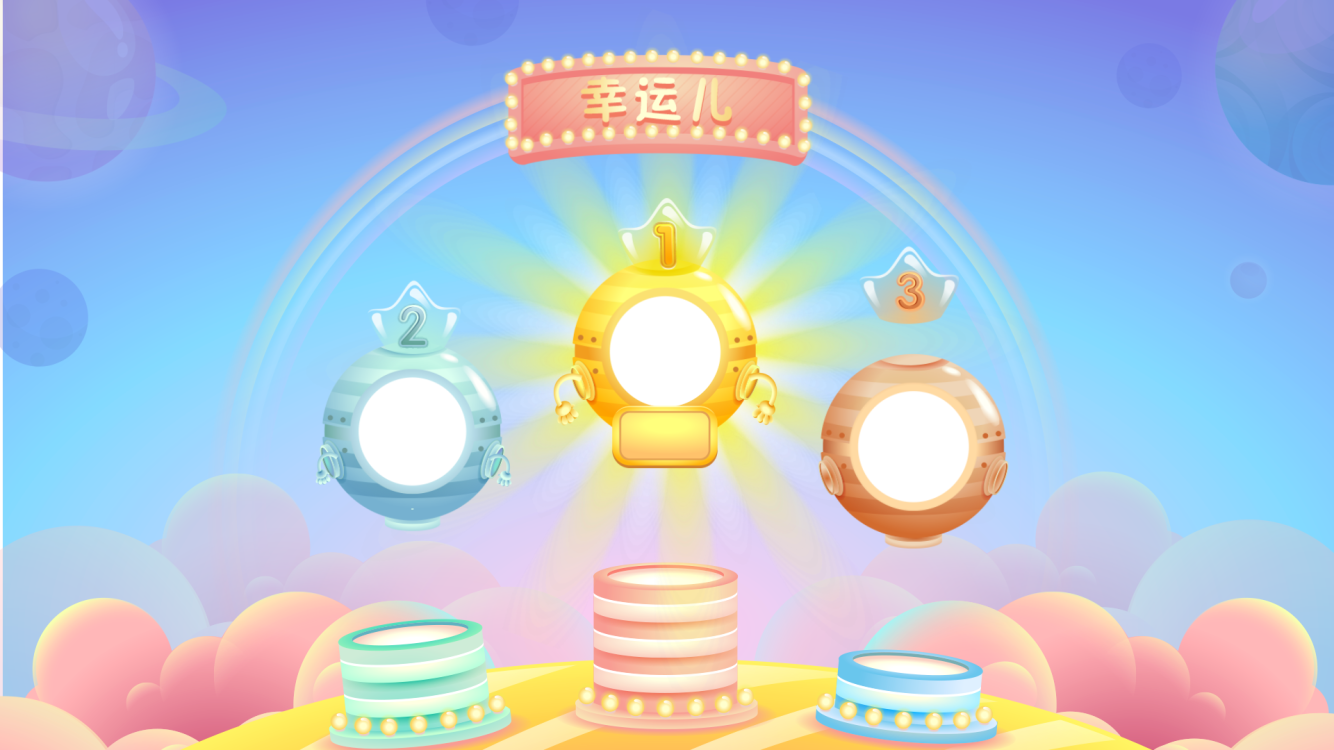
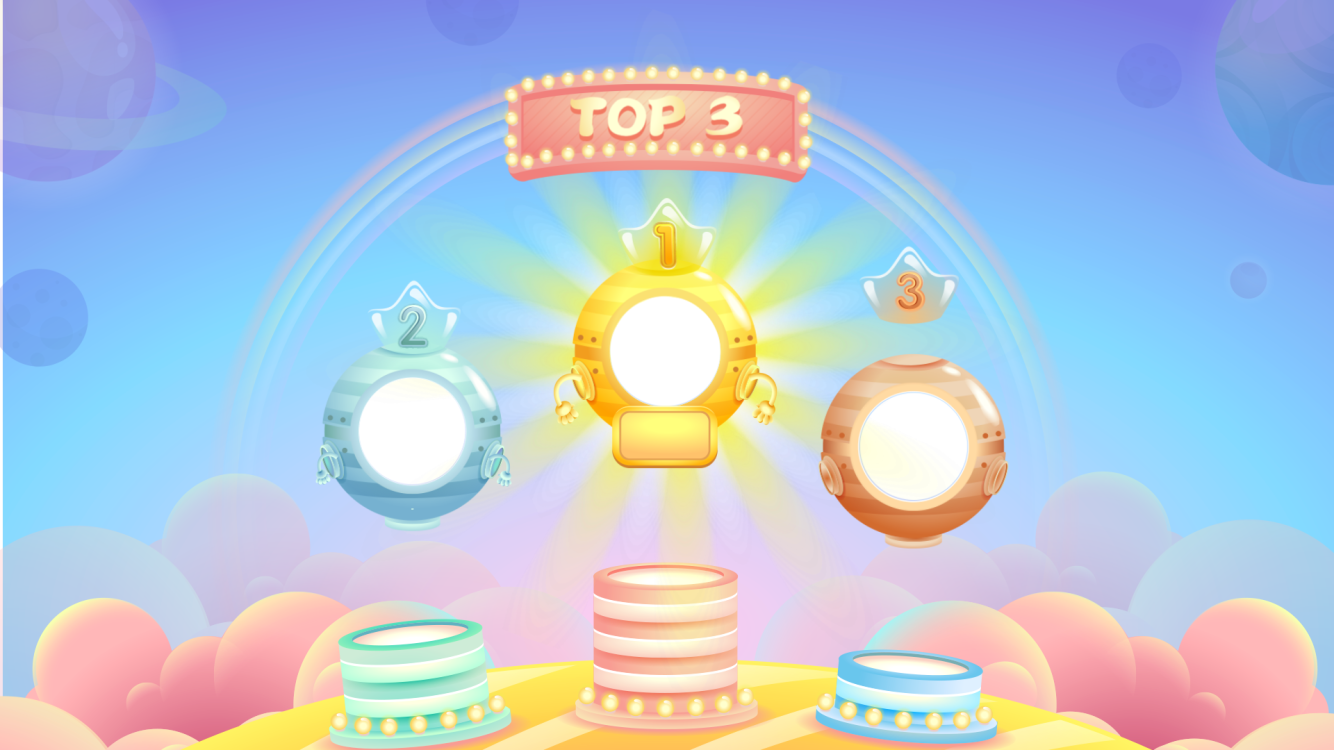
Mod:站立直播top3帧动画

Changed region(s): [[0.3688, 0.0613, 0.6147, 0.2453], [0.6454, 0.552, 0.6762, 0.644]]

diff --git a/src/main/java/com/xueersi/parentsmeeting/modules/livevideo/widget/Top3FrameAnim.java b/src/main/java/com/xueersi/parentsmeeting/modules/livevideo/widget/Top3FrameAnim.java
@@ -5,7 +5,9 @@ import android.content.Context;
 import android.graphics.Bitmap;
 import android.graphics.BitmapFactory;
 import android.graphics.Canvas;
+import android.graphics.Color;
 import android.graphics.Matrix;
+import android.graphics.Paint;
 import android.graphics.drawable.BitmapDrawable;
 import android.graphics.drawable.Drawable;
 import android.util.TypedValue;
@@ -14,6 +16,7 @@ import android.view.View;
 import android.widget.ImageView;
 import android.widget.TextView;
 
+import com.tencent.cos.xml.utils.StringUtils;
 import com.xueersi.parentsmeeting.modules.livevideo.R;
 import com.xueersi.parentsmeeting.modules.livevideo.entity.GoldTeamStatus;
 import com.xueersi.xesalib.utils.uikit.imageloader.ImageLoader;
@@ -52,6 +55,15 @@ public class Top3FrameAnim {
     }
 
     public void start(final FrameAnimation.AnimationListener animationListener, final ArrayList<GoldTeamStatus.Student> students) {
+        final int size = students.size();
+        if (size < 3) {
+            for (int i = size; i < 3; i++) {
+                GoldTeamStatus.Student student = new GoldTeamStatus.Student();
+                student.setAvatar_path("");
+                student.setNullEntity(true);
+                students.add(student);
+            }
+        }
         String path = file15;
         final FrameAnimation btframeAnimation2 =
                 FrameAnimation.createFromAees(mContext, rl_livevideo_redpackage_bg, path, 50, false);
@@ -60,11 +72,60 @@ public class Top3FrameAnim {
             public Bitmap onAnimationCreate(String file) {
                 int index = file.lastIndexOf("/");
                 String name = "";
+                int nameInt = 0;
                 if (index != -1) {
-                    name = file.substring(index + 1);
+                    name = file.substring(index + 1, file.length() - 4);
+                    String split[] = name.split("_");
+                    try {
+                        nameInt = Integer.parseInt(split[split.length - 1]);
+                    } catch (Exception e) {
+
+                    }
                 }
-                if (name.compareTo("package_rank_enter_00025") > 0) {
-                    return initTeamRankHeadAndGold(students, file, true, btframeAnimation2);
+                if (nameInt > 21 && nameInt < 24) {
+                    GoldTeamStatus.Student student = students.get(0);
+                    if (!student.isNullEntity()) {
+                        student.setDrawName(false);
+                    }
+                    return initTeamRankHeadAndGold(students, file, btframeAnimation2);
+                } else if (nameInt > 23 && nameInt < 26) {
+                    for (int i = 0; i < 2; i++) {
+                        GoldTeamStatus.Student student = students.get(i);
+                        if (!student.isNullEntity()) {
+                            student.setDrawName(false);
+                        }
+                    }
+                    return initTeamRankHeadAndGold(students, file, btframeAnimation2);
+                } else if (nameInt > 25 && nameInt < 28) {
+                    for (int i = 0; i < students.size(); i++) {
+                        GoldTeamStatus.Student student = students.get(i);
+                        if (!student.isNullEntity()) {
+                            student.setDrawName(false);
+                        }
+                    }
+                    return initTeamRankHeadAndGold(students, file, btframeAnimation2);
+                } else if (nameInt == 28) {
+                    GoldTeamStatus.Student student = students.get(0);
+                    if (!student.isNullEntity()) {
+                        student.setDrawName(true);
+                    }
+                    return initTeamRankHeadAndGold(students, file, btframeAnimation2);
+                } else if (nameInt > 28 && nameInt < 32) {
+                    for (int i = 0; i < 2; i++) {
+                        GoldTeamStatus.Student student = students.get(i);
+                        if (!student.isNullEntity()) {
+                            student.setDrawName(true);
+                        }
+                    }
+                    return initTeamRankHeadAndGold(students, file, btframeAnimation2);
+                } else if (nameInt > 31) {
+                    for (int i = 0; i < students.size(); i++) {
+                        GoldTeamStatus.Student student = students.get(i);
+                        if (!student.isNullEntity()) {
+                            student.setDrawName(true);
+                        }
+                    }
+                    return initTeamRankHeadAndGold(students, file, btframeAnimation2);
                 } else {
                     return null;
                 }
@@ -83,15 +144,20 @@ public class Top3FrameAnim {
                 final FrameAnimation btframeAnimation3 =
                         FrameAnimation.createFromAees(mContext, rl_livevideo_redpackage_bg, path, 50, true);
                 frameAnimations.add(btframeAnimation3);
-                btframeAnimation3.setBitmapCreate(new FrameAnimation.BitmapCreate() {
-                    @Override
-                    public Bitmap onAnimationCreate(String file) {
-                        if (students.isEmpty()) {
-                            return null;
+                if (!students.isEmpty()) {
+                    btframeAnimation3.setBitmapCreate(new FrameAnimation.BitmapCreate() {
+                        @Override
+                        public Bitmap onAnimationCreate(String file) {
+                            for (int i = 0; i < students.size(); i++) {
+                                GoldTeamStatus.Student student = students.get(i);
+                                if (!student.isNullEntity()) {
+                                    student.setDrawName(true);
+                                }
+                            }
+                            return initTeamRankHeadAndGold(students, file, btframeAnimation3);
                         }
-                        return initTeamRankHeadAndGold(students, file, true, btframeAnimation3);
-                    }
-                });
+                    });
+                }
                 rl_livevideo_redpackage_bg.postDelayed(new Runnable() {
                     @Override
                     public void run() {
@@ -108,7 +174,7 @@ public class Top3FrameAnim {
         });
     }
 
-    private Bitmap initTeamRankHeadAndGold(ArrayList<GoldTeamStatus.Student> students, final String file, boolean havename, final FrameAnimation upFrameAnimation) {
+    private Bitmap initTeamRankHeadAndGold(ArrayList<GoldTeamStatus.Student> students, final String file, final FrameAnimation upFrameAnimation) {
         InputStream inputStream = null;
         try {
             inputStream = mContext.getAssets().open(file);
@@ -117,12 +183,12 @@ public class Top3FrameAnim {
             Bitmap canvasBitmap = Bitmap.createBitmap(bitmap.getWidth(), bitmap.getHeight(), Bitmap.Config.ARGB_8888);
             canvasBitmap.setDensity(160);
             Canvas canvas = new Canvas(canvasBitmap);
-            canvas.drawBitmap(bitmap, 0, 0, null);
-            float[] headWidth = {108f, 96f, 96f};
+            float[] headWidth = {110f, 98f, 98f};
             int mid = bitmap.getWidth() / 2;
             float[][] headLeftAndRights = {{mid - 20, 295}, {mid - 200, 382}, {mid + 170, 398}};
             float[] textTops = {408, 478, 492};
             int[] textColors = {0xffD45F19, 0xff0C719B, 0xffD04715};
+            int[] scalHeadWidth = new int[]{-1, -1, -1};
             for (int i = 0; i < students.size(); i++) {
                 Bitmap head;
                 final GoldTeamStatus.Student entity = students.get(i);
@@ -136,8 +202,7 @@ public class Top3FrameAnim {
                     head = stuHeadBitmap.get(entity.getStuId());
                 }
                 float[] leftAndRight = headLeftAndRights[i];
-                float left = leftAndRight[0];
-                int scalHeadWidth = -1;
+                float left;
                 if (head != null && !head.isRecycled()) {
                     float scaleWidth = headWidth[i] / head.getHeight();
                     Matrix matrix = new Matrix();
@@ -151,39 +216,73 @@ public class Top3FrameAnim {
                     } else {
                         left = mid + scalHeadBitmap.getWidth() / 2 + 150;
                     }
+                    leftAndRight[0] = left;
                     float top = leftAndRight[1];
                     canvas.drawBitmap(scalHeadBitmap, left, top, null);
-                    scalHeadWidth = scalHeadBitmap.getWidth();
+                    scalHeadWidth[i] = scalHeadBitmap.getWidth();
                     scalHeadBitmap.recycle();
                 } else {
-                    Activity activity = (Activity) mContext;
-                    if (!activity.isFinishing()) {
-                        activity.runOnUiThread(new Runnable() {
-                            @Override
-                            public void run() {
-                                ImageLoader.with(mContext).load(entity.getAvatar_path()).asCircle().asBitmap(new SingleConfig.BitmapListener() {
-                                    @Override
-                                    public void onSuccess(Drawable drawable) {
-                                        Bitmap headBitmap = ((BitmapDrawable) drawable).getBitmap();
-                                        if (isMe) {
-                                            Top3FrameAnim.this.headBitmap = headBitmap;
+                    if (StringUtils.isEmpty(entity.getAvatar_path())) {
+                        if (i == 0) {
+                            left = mid - headWidth[i] / 2;
+                        } else if (i == 1) {
+                            left = mid - headWidth[i] - 206;
+                        } else {
+                            left = mid + headWidth[i] / 2 + 150;
+                        }
+                        leftAndRight[0] = left;
+                        float top = leftAndRight[1];
+//                        canvas.drawBitmap(scalHeadBitmap, left, top, null);
+                        Paint paint = new Paint();
+                        paint.setColor(Color.WHITE);
+                        float radius = headWidth[i] / 2;
+                        canvas.drawCircle(left + radius, top + radius, radius, paint);
+                    } else {
+                        Activity activity = (Activity) mContext;
+                        if (!activity.isFinishing()) {
+                            activity.runOnUiThread(new Runnable() {
+                                @Override
+                                public void run() {
+                                    ImageLoader.with(mContext).load(entity.getAvatar_path()).asCircle().asBitmap(new SingleConfig.BitmapListener() {
+                                        @Override
+                                        public void onSuccess(Drawable drawable) {
+                                            Bitmap headBitmap = ((BitmapDrawable) drawable).getBitmap();
+                                            if (isMe) {
+                                                Top3FrameAnim.this.headBitmap = headBitmap;
+                                            }
+                                            stuHeadBitmap.put(entity.getStuId(), headBitmap);
+                                            upFrameAnimation.removeBitmapCache(file);
                                         }
-                                        stuHeadBitmap.put(entity.getStuId(), headBitmap);
-                                        upFrameAnimation.removeBitmapCache(file);
-                                    }
 
-                                    @Override
-                                    public void onFail() {
+                                        @Override
+                                        public void onFail() {
 
-                                    }
-                                });
-                            }
-                        });
+                                        }
+                                    });
+                                }
+                            });
+                        }
                     }
                 }
-                bitmap.recycle();
+            }
+            canvas.drawBitmap(bitmap, 0, 0, null);
+            bitmap.recycle();
+            for (int i = 0; i < students.size(); i++) {
+                Bitmap head;
+                final GoldTeamStatus.Student entity = students.get(i);
+//                final boolean isMe = entity.isMe();
+//                if (isMe) {
+//                    head = headBitmap;
+//                    if (head == null) {
+//                        head = stuHeadBitmap.get(entity.getStuId());
+//                    }
+//                } else {
+//                    head = stuHeadBitmap.get(entity.getStuId());
+//                }
+                float[] leftAndRight = headLeftAndRights[i];
+                float left = leftAndRight[0];
                 //画名字和金币数量
-                if (havename) {
+                if (entity.isDrawName()) {
                     String gold = "+" + entity.getGold();
                     View layout_live_stand_red_mine1 = LayoutInflater.from(mContext).inflate(R.layout.layout_live_stand_red_mine2, null);
                     ImageView iv_livevideo_redpackage_num = layout_live_stand_red_mine1.findViewById(R.id.iv_livevideo_redpackage_num);
@@ -211,8 +310,8 @@ public class Top3FrameAnim {
                     canvas.save();
                     float top = textTops[i];
                     float textLeft = left;
-                    if (scalHeadWidth != -1) {
-                        textLeft = left + scalHeadWidth / 2 - layout_live_stand_red_mine1.getMeasuredWidth() / 2;
+                    if (scalHeadWidth[i] != -1) {
+                        textLeft = left + scalHeadWidth[i] / 2 - layout_live_stand_red_mine1.getMeasuredWidth() / 2;
                     }
                     canvas.translate(textLeft, top);
                     layout_live_stand_red_mine1.draw(canvas);

diff --git a/src/main/java/com/xueersi/parentsmeeting/modules/livevideo/entity/GoldTeamStatus.java b/src/main/java/com/xueersi/parentsmeeting/modules/livevideo/entity/GoldTeamStatus.java
@@ -74,6 +74,10 @@ public class GoldTeamStatus {
         String en_name;// "rer",
         String avatar_path;// "http:\/\/xesfile.xesimg.com\/user\/h\/31203.jpg"
         boolean isRight = false;
+        /** 只绘制头像不绘制名字 */
+        boolean drawName;
+        /** 空对象 */
+        boolean nullEntity = false;
 
         public boolean isMe() {
             return isMe;
@@ -145,6 +149,22 @@ public class GoldTeamStatus {
 
         public void setRight(boolean right) {
             isRight = right;
+        }
+
+        public boolean isDrawName() {
+            return drawName;
+        }
+
+        public void setDrawName(boolean drawName) {
+            this.drawName = drawName;
+        }
+
+        public boolean isNullEntity() {
+            return nullEntity;
+        }
+
+        public void setNullEntity(boolean nullEntity) {
+            this.nullEntity = nullEntity;
         }
 
         @Override
